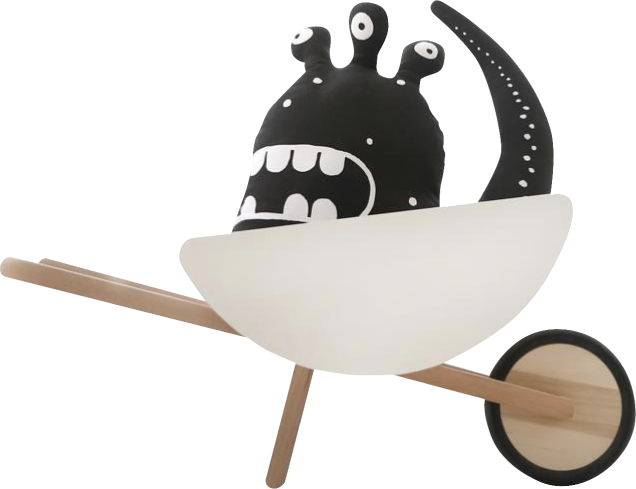
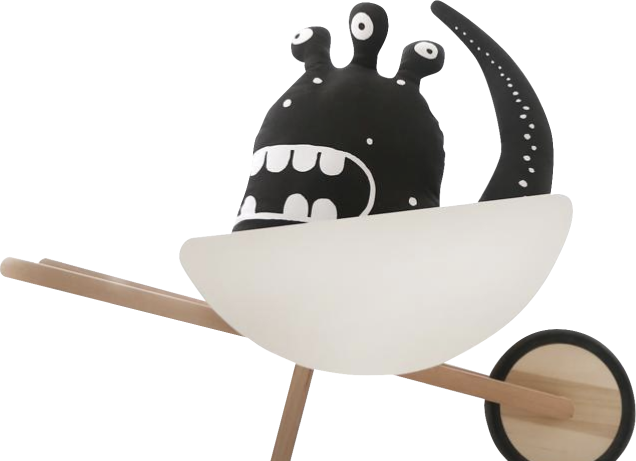
commit11

diff --git a/pages/toys.html b/pages/toys.html
@@ -50,8 +50,10 @@
         <li class="breadcrumb__item__active">Toys</li>
     </ul>
     <section class="radio__checkbox">
-        <ul>
-            <!-- Ползунок -->
+        <ul class="range__list undotted">
+            <li class="range__list__title"><h2>Cost</h2></li>
+            <li class="range__list__input"><input type="range" value="160" min="0" max="500" oninput="rangevalue.value=value" /></li>
+            <li class="range__list__output"><output id="rangevalue">500</output></li>
         </ul>
         <ul class="checkbox__list undotted">
             <h2 class="checkbox__title">Color</h2>
@@ -106,42 +108,42 @@
     </section>
     <section class="toys container">
         <ul class="toys__list undotted">
-            <li>
+            <li class="toys__list__item">
                 <img class="toys__img" src="../img/shark.png" alt="shark">
                 <p class="toys__name">SHARKY BEAN BAG CHAIR COVER</p>
                 <p class="toys__prices">$60.00 USD</p>
             </li>
-            <li>
+            <li class="toys__list__item">
                 <img class="toys__img" src="../img/brass.png" alt="brass deco">
                 <p class="toys__name">BRASS DECO FRAMES</p>
                 <p class="toys__prices">$66.00 USD</p>
             </li>
-            <li>
+            <li class="toys__list__item">
                 <img class="toys__img" src="../img/cibo.png" alt="apron">
                 <p class="toys__name">CIBO FULL APRON</p>
                 <p class="toys__prices">$60.00 USD</p>
             </li>
-            <li>
+            <li class="toys__list__item">
                 <img class="toys__img" src="../img/gatcha.png" alt="gumball machine">
                 <p class="toys__name">GATCHA GATCHA GUMBALL MACHINE</p>
                 <p class="toys__prices">$56.00 USD</p>
             </li>
-            <li>
+            <li class="toys__list__item">
                 <img class="toys__img" src="../img/christmas.png" alt="">
                 <p class="toys__name">CHRISTMAS ADVENT SCENTED CANDLE</p>
                 <p class="toys__prices">$29.00 USD</p>
             </li>
-            <li>
+            <li class="toys__list__item">
                 <img class="toys__img" src="../img/tangle.png" alt="x-max candle">
                 <p class="toys__name">TANGLE SPINNING TEA LIGHT</p>
                 <p class="toys__prices">$56.00 USD</p>
             </li>
-            <ul class="toys__numbers__bottom undotted">
-                <li class="toys__numbers"><a class="toys__numbers__link one" href="#">1</a></li>
-                <li class="toys__numbers"><a class="toys__numbers__link hover-number" href="#">2</a></li>
-                <li class="toys__numbers"><a class="toys__numbers__link hover-number" href="#">3</a></li>
-                <li class="toys__numbers"><a class="toys__numbers__link hover-number" href="#">4</a></li>
-            </ul>
+        </ul>
+        <ul class="toys__numbers__bottom undotted">
+            <li class="toys__numbers"><a class="toys__numbers__link one" href="#">1</a></li>
+            <li class="toys__numbers"><a class="toys__numbers__link hover-number" href="#">2</a></li>
+            <li class="toys__numbers"><a class="toys__numbers__link hover-number" href="#">3</a></li>
+            <li class="toys__numbers"><a class="toys__numbers__link hover-number" href="#">4</a></li>
         </ul>
     </section>
 
@@ -233,6 +235,7 @@
             <li class="footer__list__bottom__item-right web underline">Web Design — Direct Line Development</li>
         </ul>
     </footer>
+    <script src="../js/slider.js"></script>
 
     <!-- Footer End -->
 

diff --git a/css/toys.css b/css/toys.css
@@ -54,6 +54,40 @@
     margin-bottom: 60px;
 }
 
+input, output {
+    font-family: 'Open Sans';
+    font-style: normal;
+    font-weight: 400;
+    font-size: 16px;
+    line-height: 22px;
+    color: #1E0606;
+}
+
+input[type="range"] {
+    -webkit-appearance: none;
+    width: 188px;
+    height: 4px;
+    background: rgba(0, 0, 0, 0.5);
+    background-image: linear-gradient(#C29974, #C29974);
+    background-size: 70% 100%;
+    background-repeat: no-repeat;
+}
+
+input[type="range"]::-webkit-slider-thumb {
+    -webkit-appearance: none;
+    height: 24px;
+    width: 24px;
+    background: url('../img/slider_thumb.png');
+    cursor: pointer;
+}
+
+input[type="range"]::-webkit-slider-runnable-track {
+    -webkit-appearance: none;
+    box-shadow: none;
+    border: none;
+    background: transparent;
+}
+
 .checkbox__list {
     padding-left: 411px;
 }
@@ -65,7 +99,6 @@
     font-size: 16px;
     line-height: 22px;
     color: #1E0606;
-    padding-top: 42px;
     margin-bottom: 15px;
 }
 
@@ -217,18 +250,14 @@
     margin-left: 100px;
 }
 
-.toys {
-    column-count: 3;
+.toys__list {
+    display: flex;
+    flex-wrap: wrap;
     gap: 20px;
 }
 
 .toys__img {
     margin-bottom: 30px;
-}
-
-.toys__img:hover {
-    background: #123eb8;
-    opacity: 0.2;
 }
 
 .toys__name {
@@ -255,14 +284,14 @@
 
 .toys__numbers__bottom {
     display: flex;
+    justify-content: center;
     gap: 64px;
-    padding-top: 50px;
     font-family: 'Montserrat';
     font-style: normal;
     font-weight: 700;
     font-size: 16px;
     line-height: 20px;
-    margin-left: -330px;
+    color: #1E0606;
 }
 
 .toys__numbers__link {

diff --git a/js/slider.js b/js/slider.js
@@ -1,0 +1,17 @@
+const rangeInputs = document.querySelectorAll('input[type="range"]')
+
+function handleInputChange(e) {
+    let target = e.target
+    if (e.target.type !== 'range') {
+        target = document.getElementById('range')
+    }
+    const min = target.min
+    const max = target.max
+    const val = target.value
+
+    target.style.backgroundSize = (val - min) * 100 / (max - min) + '% 100%'
+}
+
+rangeInputs.forEach(input => {
+    input.addEventListener('input', handleInputChange)
+})

diff --git a/css/blog.css b/css/blog.css
@@ -44,7 +44,13 @@
 }
 
 .catalog__list {
-    column-count: 3;
+    display: flex;
+    flex-wrap: wrap;
+    gap: 20px;
+}
+
+.catalog__list__item {
+    width: 380px;
 }
 
 .catalog__list__img {

diff --git a/css/style.css b/css/style.css
@@ -36,7 +36,7 @@
 .banner__list__img {
     position: absolute;
     width: 636px;
-    height: 489px;
+    height: 461px;
     left: 42.5%;
     top: 25%;
 }

diff --git a/index.html b/index.html
@@ -305,6 +305,7 @@
         </form>
     </div>
     <script src="./js/script.js"></script>
+    
     <!-- Footer End -->
 
 </body>
